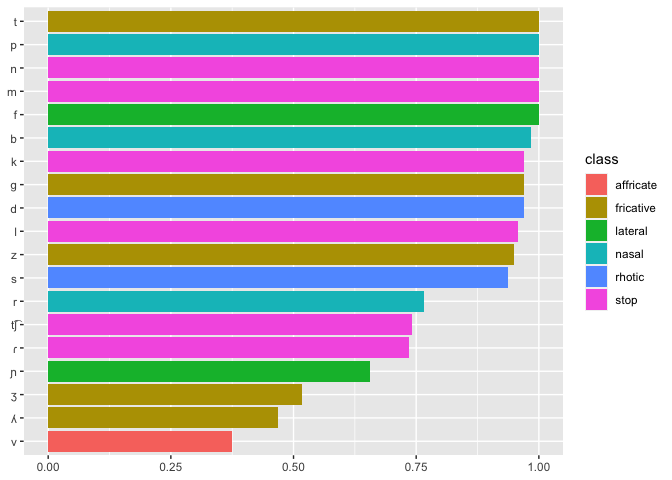
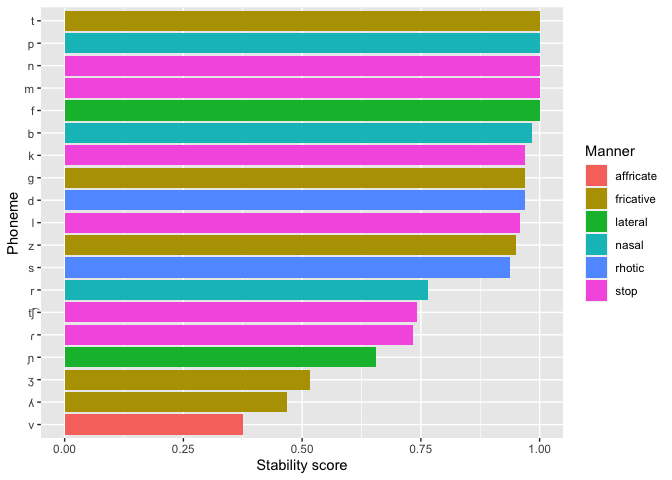
adds labels and rotated images

Changed region(s): [[0.0, 0.0, 0.8438, 1.0], [0.875, 0.2812, 1.0, 0.6562], [0.8125, 0.2188, 0.8438, 0.25]]

diff --git a/README.md b/README.md
@@ -2,7 +2,7 @@ Supplementary materials for: Consonant stability in Portuguese-based
 creoles
 ================
 Carlos Silva and Steven Moran
-(19 November, 2021)
+(20 November, 2021)
 
 -   [Overview](#overview)
 -   [Creole stability](#creole-stability)
@@ -75,8 +75,8 @@ final_results_region <- cbind(final_results, region)
 ggplot(final_results_region) + 
   geom_bar(aes(x = m, y = reorder(language, m), fill = region), 
            stat = "identity", show.legend = FALSE) +
-  theme(axis.title.x = element_blank(),
-        axis.title.y = element_blank())
+  theme(axis.title.y = element_blank()) +
+  labs(x = "Stability score")
 ```
 
 ![](README_files/figure-gfm/unnamed-chunk-6-1.png)<!-- -->
@@ -126,15 +126,13 @@ ggplot(consonant_stability, aes(y = mmanner, x = mplace, label = lexifier_phonem
 Here is an alternative view for the global results.
 
 ``` r
-# TODO: add x-axis text, legend text, change color?
 consonant_global_stability <- mutate(consonant_stability_class, mglobal = (mmanner + mplace)/2)
 
 ggplot(consonant_global_stability) + 
   geom_bar(aes(x = mglobal, 
-               y = reorder(lexifier_phoneme, mglobal), 
+               y = reorder(lexifier_phoneme, mglobal),
                fill = class), stat = "identity", show.legend = TRUE) +
-  theme(axis.title.x = element_blank(),
-        axis.title.y = element_blank())
+  labs(x = "Stability score", y = "Phoneme", fill = "Manner")
 ```
 
 ![](README_files/figure-gfm/unnamed-chunk-10-1.png)<!-- -->
@@ -167,7 +165,6 @@ position_results <- position_stability %>% group_by(position, lexifier_phoneme) 
 And plot the results for all segments.
 
 ``` r
-# TODO: flip horizontally, change colors, match stabilty x phoneme axes with above
 position_results$position <- factor(position_results$position, levels = c('word-initial', 'word-medial', 'word-final'))
 
 ggplot(position_results, aes(x = lexifier_phoneme, y = m, fill = position)) + 
@@ -177,6 +174,21 @@ ggplot(position_results, aes(x = lexifier_phoneme, y = m, fill = position)) +
 ```
 
 ![](README_files/figure-gfm/unnamed-chunk-13-1.png)<!-- -->
+
+Flip horizontally.
+
+``` r
+ggplot(position_results) + 
+  geom_bar(aes(x = m,
+               y = reorder(lexifier_phoneme, m),
+               fill = position), 
+           stat = "identity", 
+           show.legend = TRUE,
+           position = "dodge2") +
+  labs(x = "Stability score", y = "Phoneme", fill = "Position")
+```
+
+![](README_files/figure-gfm/unnamed-chunk-14-1.png)<!-- -->
 
 Plot the results for segments that show differences.
 
@@ -197,7 +209,24 @@ ggplot(different_position_results,
 
     ## Warning: Removed 8 rows containing missing values (geom_col).
 
-![](README_files/figure-gfm/unnamed-chunk-14-1.png)<!-- -->
+![](README_files/figure-gfm/unnamed-chunk-15-1.png)<!-- --> Flip
+horizontally.
+
+``` r
+# TODO: reorder doesn't work here
+ggplot(different_position_results) + 
+  geom_bar(aes(x = m,
+               y = reorder(lexifier_phoneme, m),
+               fill = position), 
+           stat = "identity", 
+           show.legend = TRUE,
+           position = "dodge2") +
+  labs(x = "Stability score", y = "Phoneme", fill = "Position")
+```
+
+    ## Warning: Removed 8 rows containing missing values (geom_bar).
+
+![](README_files/figure-gfm/unnamed-chunk-16-1.png)<!-- -->
 
 # References
 
